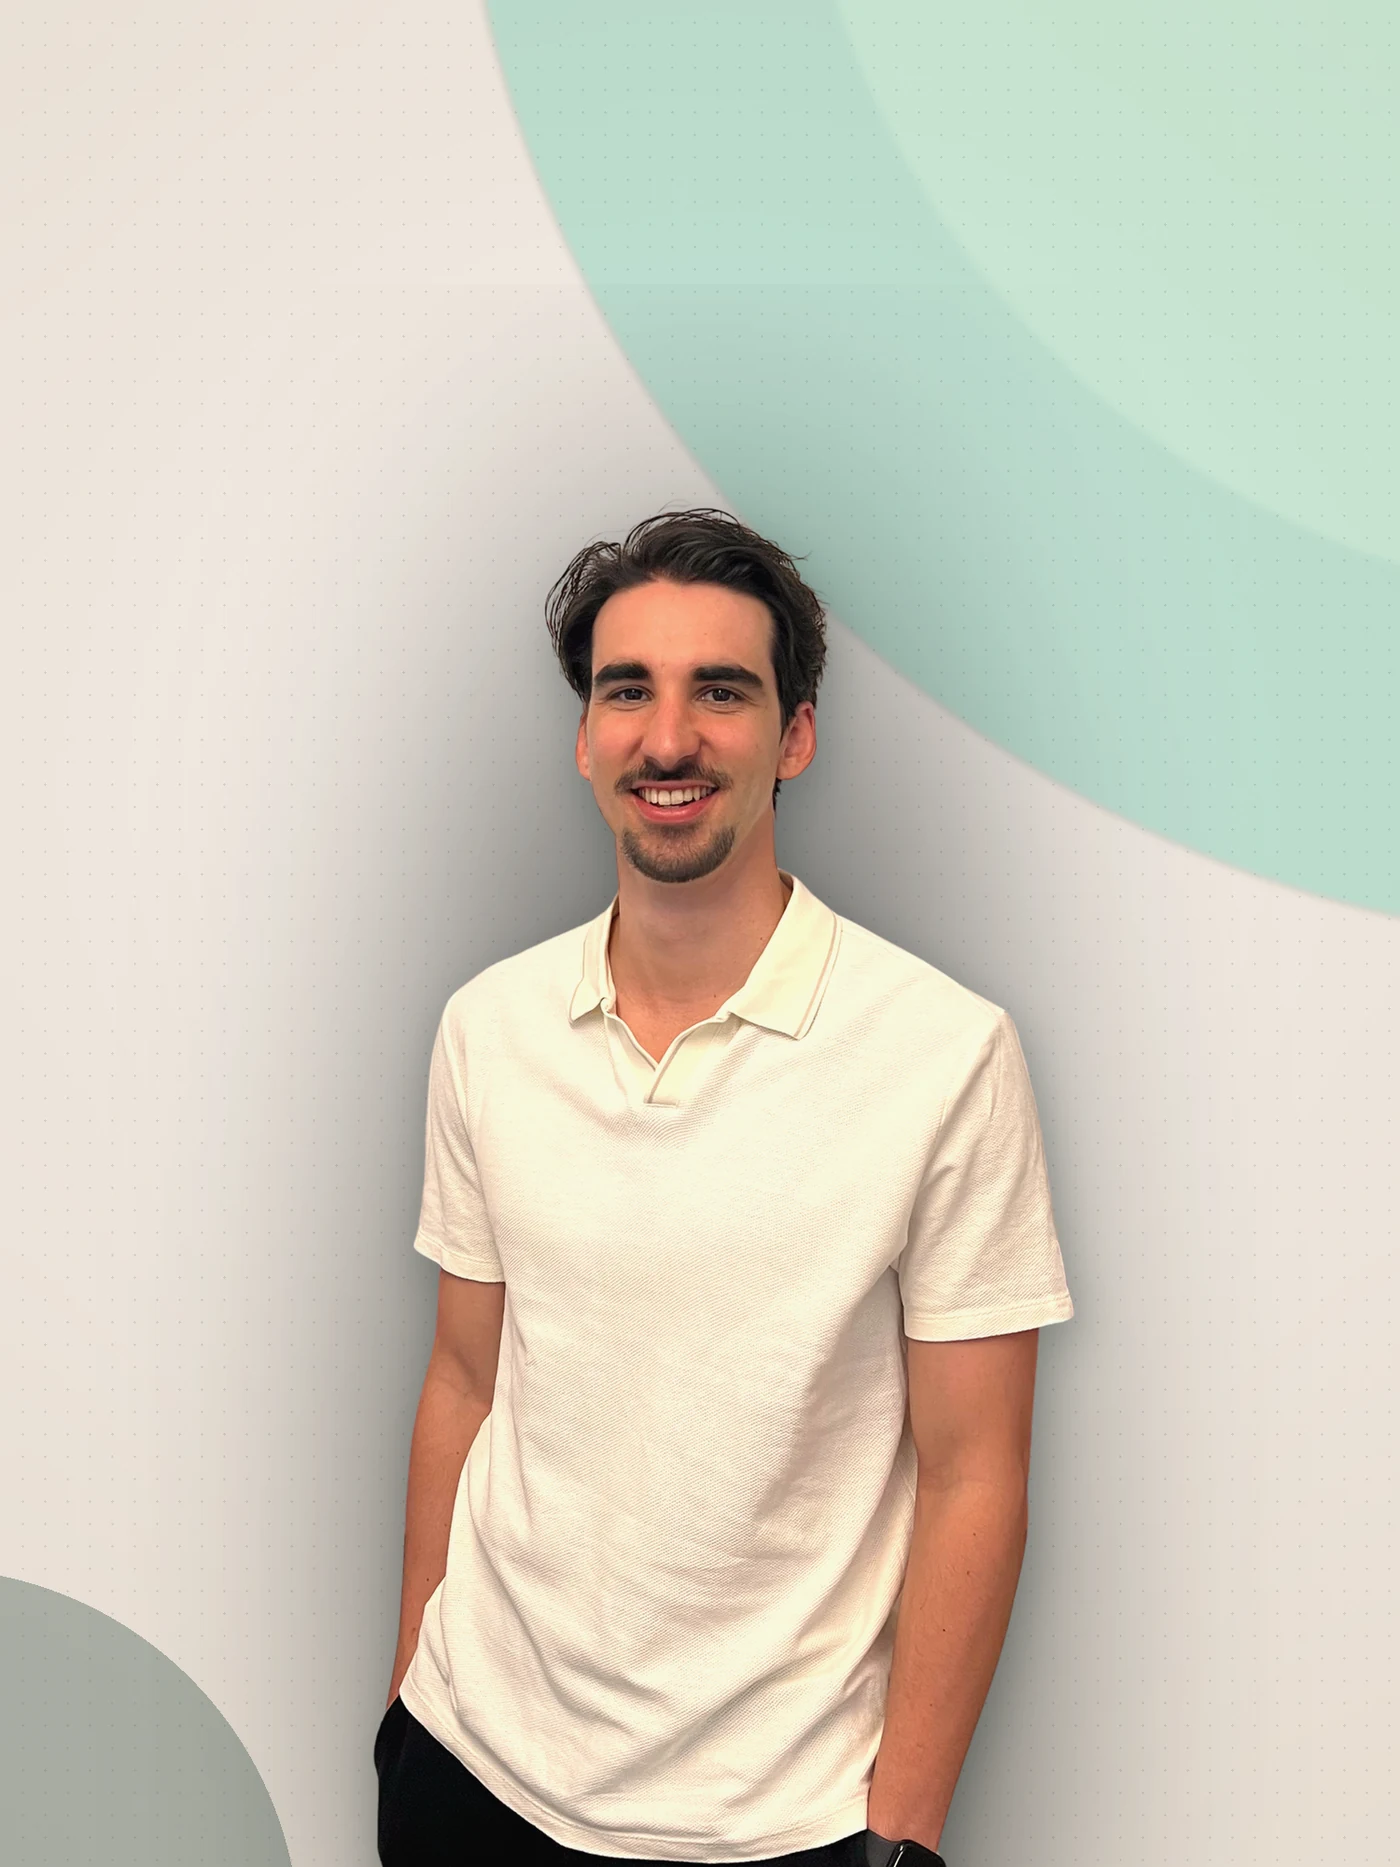
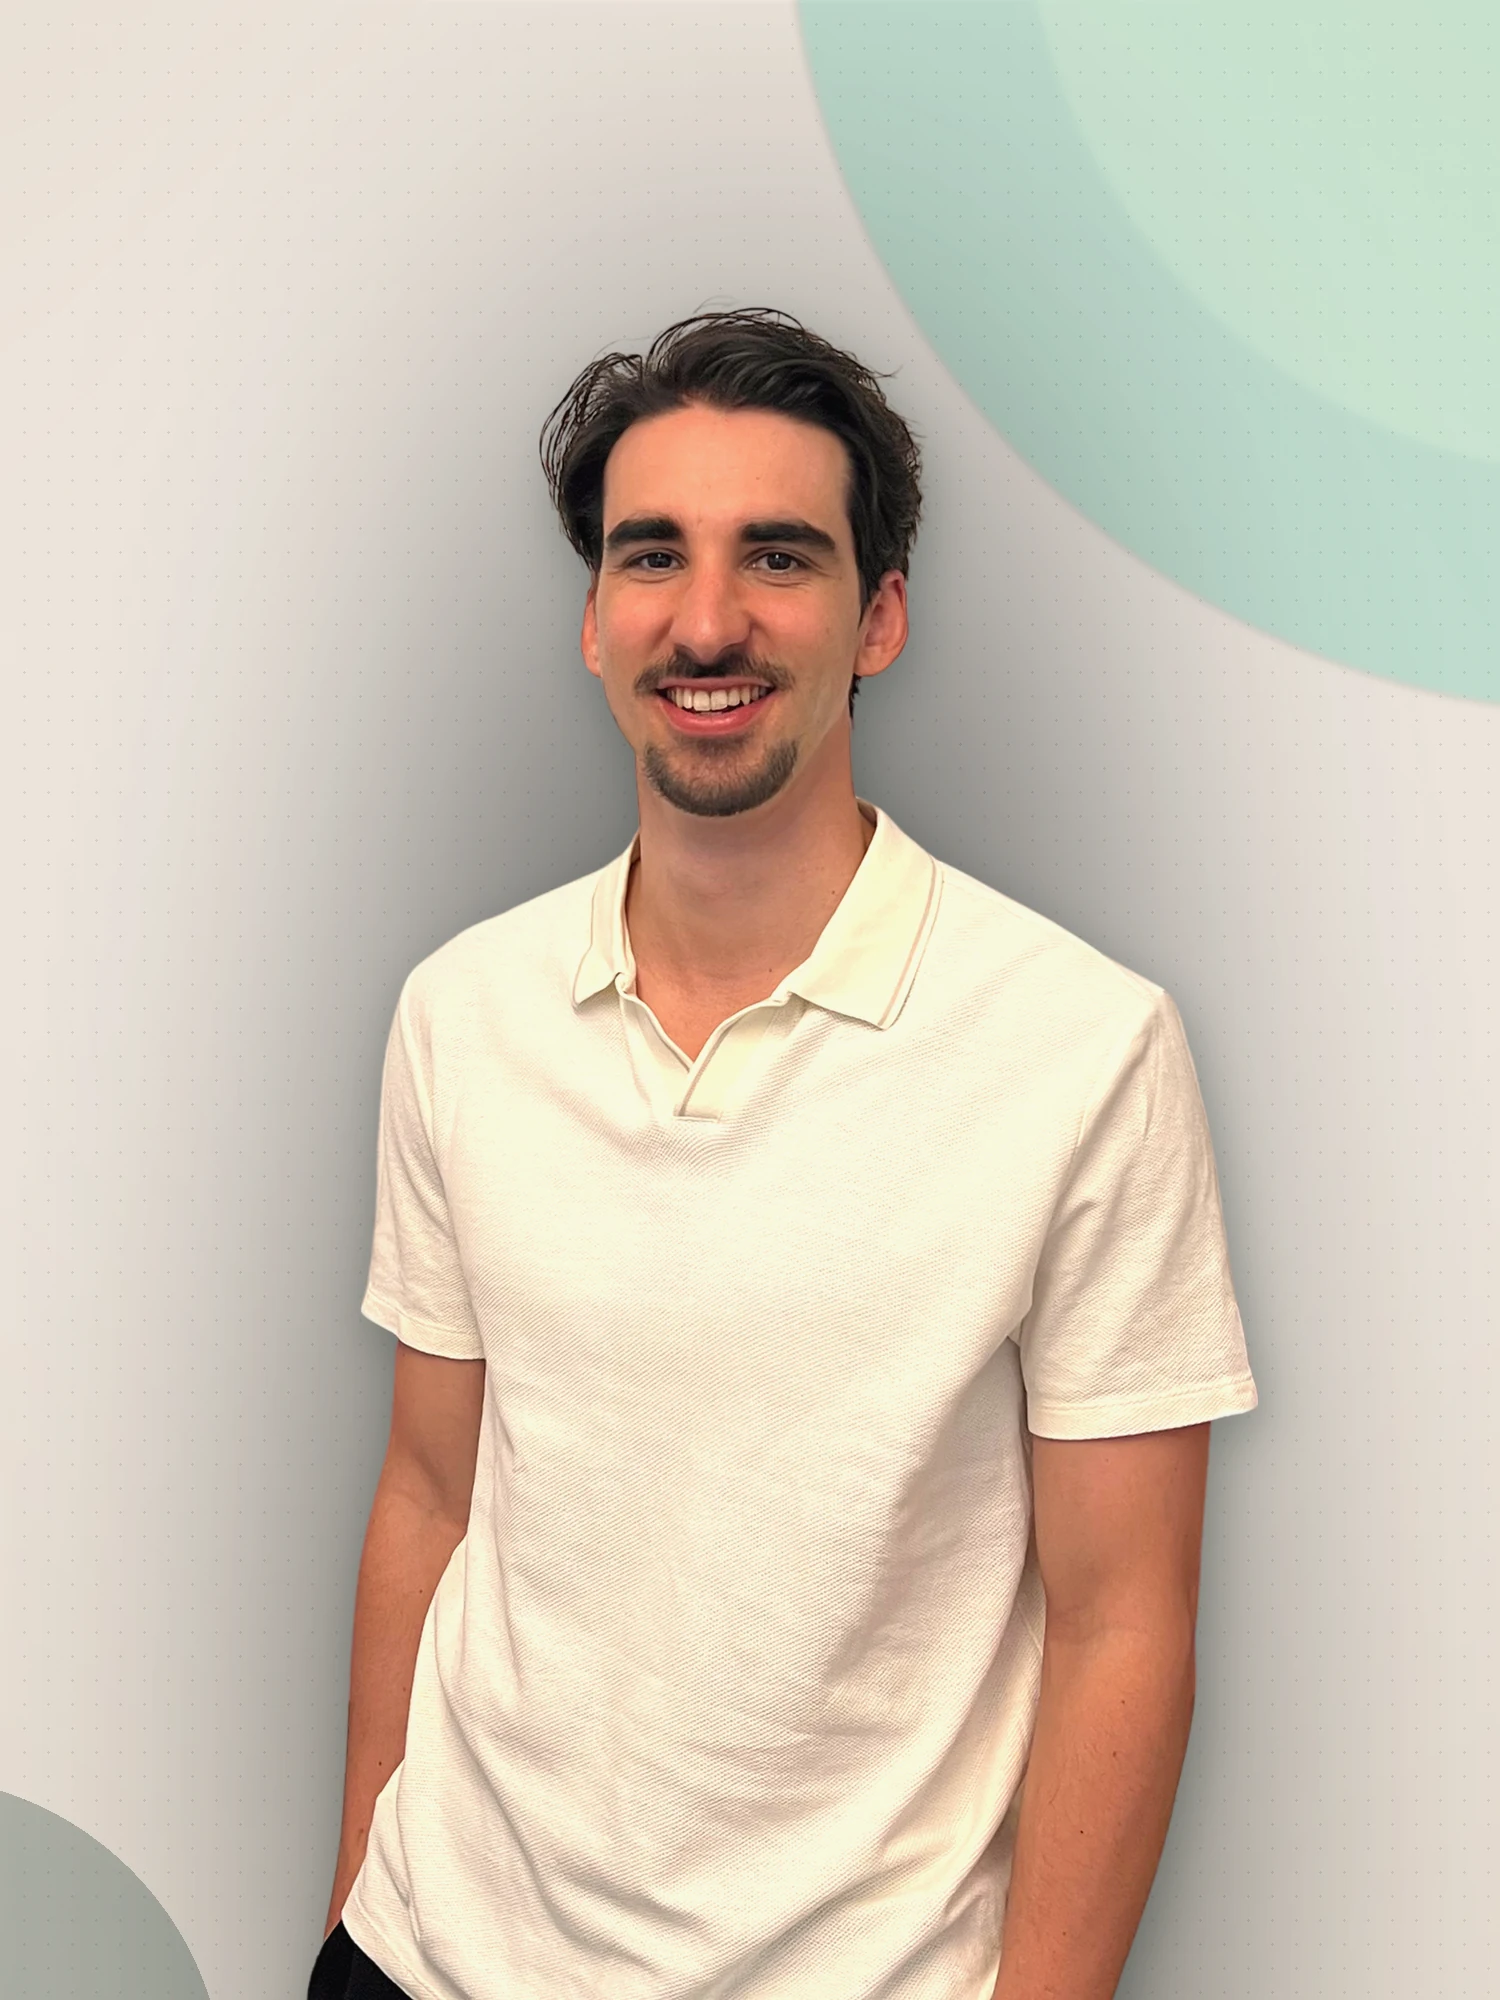
Bigger Marco in Hero + vertical-stack About layout
Hero photo (marco.jpg):
Previous iterations kept Marco proportionally small because the 3:4
canvas was held rigid and the design elements (teal arc, circles, dot
pattern) competed with him for visual weight. Fixed by:
- Cropping source PNG to head + torso (bottom 22% cut — thighs gone)
- Scaling Marco so his silhouette height = 100% of canvas height; he
  overflows horizontally by ~12% which clips his arms at the sides
  (fine: his figure still reads clearly, his face becomes dominant)
- Shrunk the teal arc from r≈65% of canvas height to r≈42% so it
  becomes an accent, not a competitor
- Smaller forest circle, lighter dot pattern alpha
Result: face/chest now fill the top 60% of the rendered container,
shoulders span the frame, he commands the frame like a hero portrait.

About section — completely restructured away from 2-col-sticky:
Previous `items-start + xl:sticky xl:top-24` on the left column kept
the photo pinned while the right column scrolled; user found it
"static-feeling" and still unbalanced. Replaced with a vertical-stack
editorial layout:
1. Top 2-col (items-center): photo + heading/intro paragraphs only.
   Both columns are naturally similar in height — no mismatch.
2. Full-width Schnupper-Trainingsstunde CTA: enlarged into a
   hero-card (3xl rounded, gradient bg with teal glow, big 1. numeral,
   headline + body + arrow button) — now impossible to miss.
3. 3-col USPs grid (md:grid-cols-3) as equal-weight cards below —
[…]

diff --git a/components/About.tsx b/components/About.tsx
@@ -48,166 +48,190 @@ export function About() {
         200+
       </motion.div>
 
-      <div className="max-w-7xl mx-auto px-5 sm:px-6 lg:px-10 grid xl:grid-cols-12 gap-10 xl:gap-20 items-start relative">
-        {/* Left: Photo (sticky on desktop so it pins while long right column scrolls) */}
-        <div className="xl:col-span-5 max-w-xl w-full mx-auto xl:mx-0 xl:sticky xl:top-24 xl:self-start">
-          <div className="relative aspect-[3/4] rounded-[2rem] overflow-hidden bg-forest">
-            <motion.div
-              style={{ y: imageY, scale: imageScale }}
-              className="absolute inset-[-5%]"
-            >
-              <Image
-                src="/marco-about.jpg"
-                alt="Marco Degel – Personal Trainer für Senioren in München und Umgebung"
-                fill
-                sizes="(max-width: 1280px) 90vw, 40vw"
-                className="object-cover"
-                priority={false}
-              />
-              {/* Fallback gradient */}
-              <div className="absolute inset-0 bg-gradient-to-br from-forest via-forest-mid to-teal/30 -z-10" />
-            </motion.div>
+      <div className="max-w-7xl mx-auto px-5 sm:px-6 lg:px-10 relative">
+        {/* ── TOP: 2-col intro — photo + heading/paragraphs ── */}
+        <div className="grid xl:grid-cols-12 gap-10 xl:gap-16 items-center mb-16 lg:mb-24">
+          {/* Left: Photo */}
+          <div className="xl:col-span-5 max-w-lg w-full mx-auto xl:mx-0">
+            <div className="relative aspect-[3/4] rounded-[2rem] overflow-hidden bg-forest">
+              <motion.div
+                style={{ y: imageY, scale: imageScale }}
+                className="absolute inset-[-5%]"
+              >
+                <Image
+                  src="/marco-about.jpg"
+                  alt="Marco Degel – Personal Trainer für Senioren in München und Umgebung"
+                  fill
+                  sizes="(max-width: 1280px) 90vw, 40vw"
+                  className="object-cover"
+                  priority={false}
+                />
+                <div className="absolute inset-0 bg-gradient-to-br from-forest via-forest-mid to-teal/30 -z-10" />
+              </motion.div>
 
-            {/* Subtle vignette */}
-            <div className="absolute inset-0 bg-gradient-to-t from-forest/50 via-transparent to-transparent" />
+              {/* Subtle vignette */}
+              <div className="absolute inset-0 bg-gradient-to-t from-forest/50 via-transparent to-transparent" />
 
-            {/* Badges */}
-            <div className="absolute top-5 left-5 px-3 py-1.5 rounded-full bg-cream/90 backdrop-blur-sm text-forest text-[0.65rem] tracking-[0.25em] uppercase font-semibold">
-              Marco Degel
-            </div>
-            <div className="absolute top-5 right-5 px-3 py-1.5 rounded-full bg-teal text-forest text-[0.65rem] tracking-[0.15em] font-semibold">
-              München
-            </div>
+              {/* Top badges */}
+              <div className="absolute top-5 left-5 px-3 py-1.5 rounded-full bg-cream/90 backdrop-blur-sm text-forest text-[0.65rem] tracking-[0.25em] uppercase font-semibold">
+                Marco Degel
+              </div>
+              <div className="absolute top-5 right-5 px-3 py-1.5 rounded-full bg-teal text-forest text-[0.65rem] tracking-[0.15em] font-semibold">
+                München
+              </div>
 
-            {/* Quote at bottom */}
-            <div className="absolute bottom-5 left-5 right-5">
-              <div className="bg-cream/95 backdrop-blur-md rounded-2xl p-5 lg:p-6">
-                <div className="font-display italic text-lg lg:text-xl text-forest leading-tight">
-                  &ldquo;Wer rastet, der rostet.&rdquo;
+              {/* Bottom quote */}
+              <div className="absolute bottom-5 left-5 right-5">
+                <div className="bg-cream/95 backdrop-blur-md rounded-2xl p-5 lg:p-6">
+                  <div className="font-display italic text-lg lg:text-xl text-forest leading-tight">
+                    &ldquo;Wer rastet, der rostet.&rdquo;
+                  </div>
                 </div>
               </div>
             </div>
           </div>
 
-          {/* Stats row */}
-          <motion.div
-            initial={{ opacity: 0, y: 30 }}
-            whileInView={{ opacity: 1, y: 0 }}
-            viewport={{ once: true }}
-            transition={{ duration: 0.6, delay: 0.2 }}
-            className="mt-6 grid grid-cols-2 gap-4"
-          >
-            <div className="bg-forest text-cream rounded-2xl p-5 lg:p-6">
-              <div className="font-display text-3xl lg:text-4xl font-bold text-mint leading-none">
-                200+
-              </div>
-              <div className="text-[0.65rem] text-white/60 mt-2 tracking-[0.2em] uppercase">
-                Trainings&shy;stunden
-              </div>
-            </div>
-            <div className="bg-white rounded-2xl p-5 lg:p-6 border border-sand">
-              <div className="font-display text-3xl lg:text-4xl font-bold text-forest leading-none">
-                4 J.
-              </div>
-              <div className="text-[0.65rem] text-slate mt-2 tracking-[0.2em] uppercase">
-                Hochleistungs&shy;sport
-              </div>
-            </div>
-          </motion.div>
-        </div>
-
-        {/* Right: Content */}
-        <div className="xl:col-span-7">
-          <motion.div
-            initial={{ opacity: 0, y: 30 }}
-            whileInView={{ opacity: 1, y: 0 }}
-            viewport={{ once: true }}
-            transition={{ duration: 0.7 }}
-          >
-            <div className="text-[0.7rem] font-semibold tracking-[0.3em] uppercase text-teal mb-4">
-              Über mich
-            </div>
-            <h2 className="font-display text-4xl sm:text-5xl lg:text-7xl font-bold text-forest leading-[0.95] mb-6 lg:mb-8">
-              Hi, ich bin <span className="italic text-teal">Marco.</span>
-            </h2>
-            <p className="text-lg sm:text-xl lg:text-2xl text-forest/80 font-light leading-relaxed mb-6 max-w-2xl">
-              Durch meine Erfahrung im{" "}
-              <span className="text-forest font-normal">Fitness- und Gesundheitsbereich</span>{" "}
-              weiß ich, wie entscheidend gezieltes Training gerade im Alter
-              ist — für Kraft, Beweglichkeit und Lebensqualität im Alltag.
-            </p>
-            <p className="text-lg sm:text-xl lg:text-2xl text-forest/80 font-light leading-relaxed mb-8 max-w-2xl">
-              Bei{" "}
-              <span className="text-teal font-normal">&bdquo;Fit mit Marco&ldquo;</span>{" "}
-              trainieren wir in deiner{" "}
-              <span className="text-forest font-normal">privaten Umgebung</span>
-              {" "}— kein Gym-Stress, keine fremden Blicke, nur du, ich und
-              genau das Training, das dir guttut.
-            </p>
-
-            {/* Free trial session callout */}
-            <motion.a
-              href="/erstgespraech"
-              initial={{ opacity: 0, y: 20 }}
+          {/* Right: Heading + intro paragraphs */}
+          <div className="xl:col-span-7">
+            <motion.div
+              initial={{ opacity: 0, y: 30 }}
               whileInView={{ opacity: 1, y: 0 }}
               viewport={{ once: true }}
-              transition={{ duration: 0.6, delay: 0.2 }}
-              className="group mb-8 lg:mb-10 inline-flex items-start gap-4 max-w-2xl p-5 lg:p-6 rounded-2xl bg-gradient-to-br from-teal/10 to-mint/5 border border-teal/20 hover:border-teal/50 hover:shadow-soft-md transition-all duration-400 ease-smooth"
+              transition={{ duration: 0.7 }}
             >
-              <div className="flex-shrink-0 w-11 h-11 lg:w-12 lg:h-12 rounded-xl bg-teal text-forest flex items-center justify-center group-hover:rotate-[-8deg] transition-transform duration-400">
-                <span className="font-display font-bold text-xl">1.</span>
+              <div className="text-[0.7rem] font-semibold tracking-[0.3em] uppercase text-teal mb-4">
+                Über mich
               </div>
-              <div className="flex-1">
-                <div className="flex flex-wrap items-center gap-2 mb-1">
-                  <span className="font-display font-bold text-forest text-lg sm:text-xl">
-                    Schnupper-Trainingsstunde
-                  </span>
-                  <span className="px-2.5 py-0.5 rounded-full bg-teal text-forest text-[0.65rem] font-bold tracking-[0.15em] uppercase">
-                    kostenlos
-                  </span>
-                </div>
-                <div className="text-slate text-sm sm:text-base leading-relaxed">
-                  Die erste Trainingsstunde ist gratis. Wir lernen uns kennen,
-                  schauen wie es dir geht und du spürst direkt, wie sich das
-                  Training anfühlt — ganz ohne Verpflichtung.
-                </div>
-                <div className="mt-3 inline-flex items-center gap-2 text-teal text-sm font-semibold group-hover:gap-3 transition-all">
-                  Schnupperstunde vereinbaren
-                  <ArrowUpRight size={16} className="group-hover:rotate-45 transition-transform duration-400" />
-                </div>
-              </div>
-            </motion.a>
-          </motion.div>
-
-          <div className="space-y-2 lg:space-y-3 mt-8 lg:mt-12">
-            {usps.map((usp, i) => (
-              <motion.div
-                key={usp.title}
-                initial={{ opacity: 0, x: 20 }}
-                whileInView={{ opacity: 1, x: 0 }}
-                viewport={{ once: true }}
-                transition={{ duration: 0.5, delay: i * 0.1 }}
-                className="group flex gap-4 sm:gap-5 items-start p-4 sm:p-5 lg:p-6 rounded-2xl hover:bg-white transition-colors"
-              >
-                <div className="flex-shrink-0 w-11 h-11 sm:w-12 sm:h-12 rounded-xl bg-forest text-mint flex items-center justify-center group-hover:bg-teal group-hover:text-forest transition-colors">
-                  <usp.icon size={18} />
-                </div>
-                <div className="flex-1 min-w-0">
-                  <div className="font-display font-bold text-forest text-lg sm:text-xl mb-1">
-                    {usp.title}
-                  </div>
-                  <div className="text-slate leading-relaxed text-sm sm:text-base">
-                    {usp.text}
-                  </div>
-                </div>
-                <ArrowUpRight
-                  size={16}
-                  className="text-forest/20 group-hover:text-teal group-hover:translate-x-1 group-hover:-translate-y-1 transition-all mt-1 hidden sm:block flex-shrink-0"
-                />
-              </motion.div>
-            ))}
+              <h2 className="font-display text-4xl sm:text-5xl lg:text-7xl font-bold text-forest leading-[0.95] mb-6 lg:mb-8">
+                Hi, ich bin <span className="italic text-teal">Marco.</span>
+              </h2>
+              <p className="text-lg sm:text-xl lg:text-2xl text-forest/80 font-light leading-relaxed mb-5 max-w-2xl">
+                Durch meine Erfahrung im{" "}
+                <span className="text-forest font-normal">Fitness- und Gesundheitsbereich</span>{" "}
+                weiß ich, wie entscheidend gezieltes Training gerade im Alter
+                ist — für Kraft, Beweglichkeit und Lebensqualität im Alltag.
+              </p>
+              <p className="text-lg sm:text-xl lg:text-2xl text-forest/80 font-light leading-relaxed max-w-2xl">
+                Bei{" "}
+                <span className="text-teal font-normal">&bdquo;Fit mit Marco&ldquo;</span>{" "}
+                trainieren wir in deiner{" "}
+                <span className="text-forest font-normal">privaten Umgebung</span>
+                {" "}— kein Gym-Stress, keine fremden Blicke, nur du, ich und
+                genau das Training, das dir guttut.
+              </p>
+            </motion.div>
           </div>
         </div>
+
+        {/* ── MIDDLE: Schnupperstunde CTA, full width, prominent ── */}
+        <motion.a
+          href="/erstgespraech"
+          initial={{ opacity: 0, y: 30 }}
+          whileInView={{ opacity: 1, y: 0 }}
+          viewport={{ once: true }}
+          transition={{ duration: 0.6 }}
+          className="group relative overflow-hidden block mb-16 lg:mb-20 rounded-3xl bg-gradient-to-br from-teal/10 via-mint/5 to-cream border border-teal/25 hover:border-teal/60 hover:shadow-soft-lg transition-all duration-500 ease-smooth"
+        >
+          <div className="absolute top-0 right-0 w-60 h-60 lg:w-96 lg:h-96 rounded-full bg-teal/10 blur-3xl -translate-y-1/3 translate-x-1/3" />
+          <div className="relative p-6 sm:p-8 lg:p-12 flex flex-col md:flex-row md:items-center gap-6 lg:gap-10">
+            <div className="flex-shrink-0 flex items-center gap-5">
+              <div className="w-14 h-14 lg:w-16 lg:h-16 rounded-2xl bg-teal text-forest flex items-center justify-center shadow-soft-md group-hover:rotate-[-8deg] transition-transform duration-400">
+                <span className="font-display font-bold text-2xl lg:text-3xl">1.</span>
+              </div>
+              <div className="md:hidden">
+                <span className="px-2.5 py-1 rounded-full bg-teal text-forest text-[0.65rem] font-bold tracking-[0.15em] uppercase">
+                  kostenlos
+                </span>
+              </div>
+            </div>
+            <div className="flex-1 min-w-0">
+              <div className="hidden md:flex items-center gap-3 mb-2">
+                <span className="text-[0.7rem] font-semibold tracking-[0.25em] uppercase text-teal">
+                  Das erste Mal ist auf mich
+                </span>
+                <span className="px-2.5 py-0.5 rounded-full bg-teal text-forest text-[0.65rem] font-bold tracking-[0.15em] uppercase">
+                  kostenlos
+                </span>
+              </div>
+              <div className="font-display text-2xl sm:text-3xl lg:text-4xl font-bold text-forest leading-tight mb-2 lg:mb-3">
+                Schnupper-Trainingsstunde
+              </div>
+              <div className="text-slate leading-relaxed text-base lg:text-lg max-w-2xl">
+                Die erste Trainingsstunde ist gratis. Wir lernen uns kennen,
+                schauen wie es dir geht und du spürst direkt, wie sich das
+                Training anfühlt — ganz ohne Verpflichtung.
+              </div>
+            </div>
+            <div className="flex-shrink-0 flex items-center gap-2 text-teal font-semibold text-sm lg:text-base md:flex-col md:items-end lg:flex-row lg:items-center">
+              <span className="group-hover:-translate-x-0.5 transition-transform duration-400">
+                Termin vereinbaren
+              </span>
+              <span className="w-12 h-12 rounded-full bg-teal group-hover:bg-forest text-forest group-hover:text-teal flex items-center justify-center transition-all duration-400 group-hover:rotate-45 shadow-soft">
+                <ArrowUpRight size={18} />
+              </span>
+            </div>
+          </div>
+        </motion.a>
+
+        {/* ── USPs: 3-col grid, full width ── */}
+        <div className="grid md:grid-cols-3 gap-4 lg:gap-6 mb-16 lg:mb-20">
+          {usps.map((usp, i) => (
+            <motion.div
+              key={usp.title}
+              initial={{ opacity: 0, y: 30 }}
+              whileInView={{ opacity: 1, y: 0 }}
+              viewport={{ once: true }}
+              transition={{ duration: 0.5, delay: i * 0.1 }}
+              className="group flex flex-col gap-4 p-6 lg:p-7 rounded-3xl bg-white border border-sand hover:border-teal/40 hover:shadow-soft-md transition-all duration-400 ease-smooth"
+            >
+              <div className="w-12 h-12 rounded-xl bg-forest text-mint flex items-center justify-center group-hover:bg-teal group-hover:text-forest transition-colors">
+                <usp.icon size={20} />
+              </div>
+              <div>
+                <div className="font-display font-bold text-forest text-xl mb-2">
+                  {usp.title}
+                </div>
+                <div className="text-slate leading-relaxed text-sm lg:text-base">
+                  {usp.text}
+                </div>
+              </div>
+            </motion.div>
+          ))}
+        </div>
+
+        {/* ── Stats: horizontal row, full width ── */}
+        <motion.div
+          initial={{ opacity: 0, y: 20 }}
+          whileInView={{ opacity: 1, y: 0 }}
+          viewport={{ once: true }}
+          transition={{ duration: 0.6 }}
+          className="grid grid-cols-3 gap-3 sm:gap-4 lg:gap-6 pt-10 lg:pt-14 border-t border-forest/10"
+        >
+          <div className="bg-forest text-cream rounded-2xl p-5 lg:p-7">
+            <div className="font-display text-3xl lg:text-5xl font-bold text-mint leading-none">
+              200+
+            </div>
+            <div className="text-[0.6rem] sm:text-[0.65rem] text-white/60 mt-2 lg:mt-3 tracking-[0.2em] uppercase">
+              Trainings&shy;stunden
+            </div>
+          </div>
+          <div className="bg-white rounded-2xl p-5 lg:p-7 border border-sand">
+            <div className="font-display text-3xl lg:text-5xl font-bold text-forest leading-none">
+              seit 2018
+            </div>
+            <div className="text-[0.6rem] sm:text-[0.65rem] text-slate mt-2 lg:mt-3 tracking-[0.2em] uppercase">
+              Personal Trainer
+            </div>
+          </div>
+          <div className="bg-white rounded-2xl p-5 lg:p-7 border border-sand">
+            <div className="font-display text-3xl lg:text-5xl font-bold text-forest leading-none">
+              4 J.
+            </div>
+            <div className="text-[0.6rem] sm:text-[0.65rem] text-slate mt-2 lg:mt-3 tracking-[0.2em] uppercase">
+              Hochleistungs&shy;sport
+            </div>
+          </div>
+        </motion.div>
       </div>
     </section>
   );